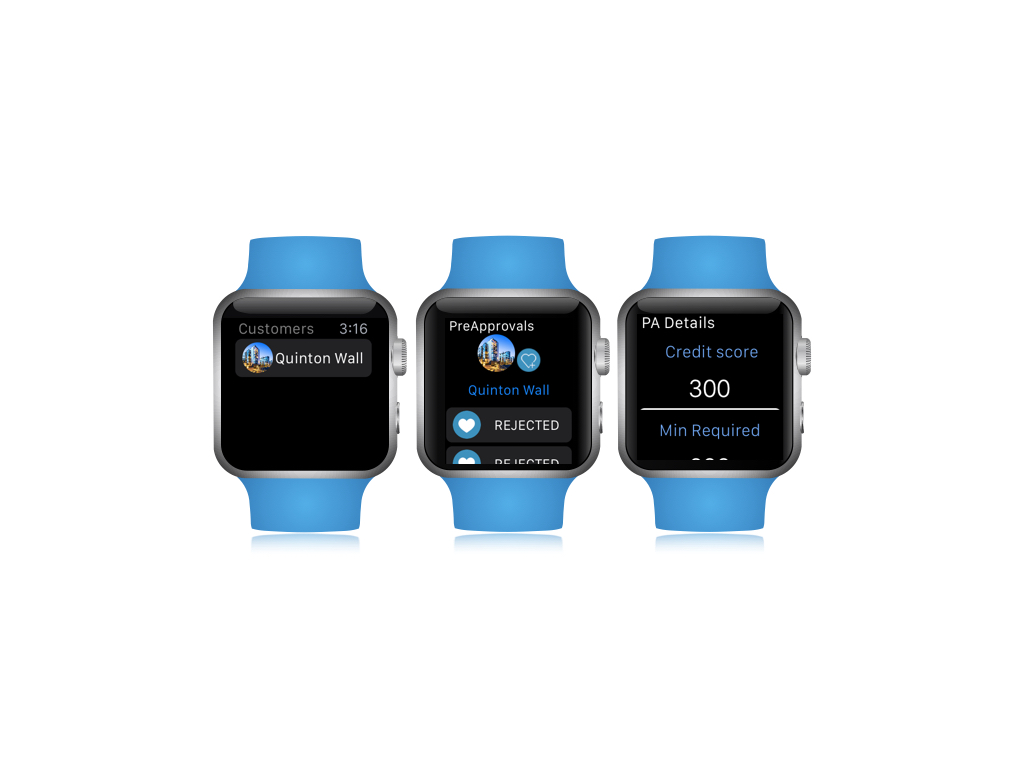
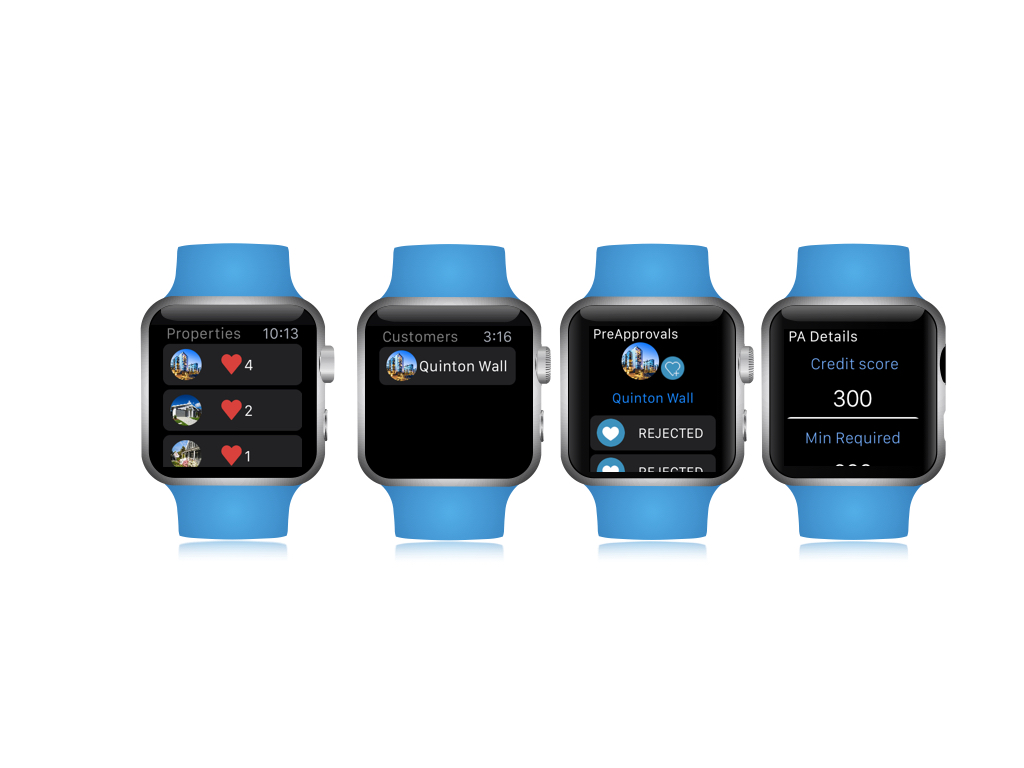
added new properties screen

Changed region(s): [[0.125, 0.2812, 0.9375, 0.7188]]

diff --git a/SalesforceWatch WatchKit Extension/HouseListInterfaceController.swift b/SalesforceWatch WatchKit Extension/HouseListInterfaceController.swift
@@ -1,0 +1,9 @@
+//
+//  HouseListInterfaceController.swift
+//  LightningRealtor
+//
+//  Created by Quinton Wall on 3/10/16.
+//  Copyright © 2016 Salesforce, Inc. All rights reserved.
+//
+
+import Foundation

diff --git a/SalesforceWatch WatchKit Extension/HouseDetailRowController.swift b/SalesforceWatch WatchKit Extension/HouseDetailRowController.swift
@@ -1,0 +1,9 @@
+//
+//  HouseDetailRowController.swift
+//  LightningRealtor
+//
+//  Created by Quinton Wall on 3/10/16.
+//  Copyright © 2016 Salesforce, Inc. All rights reserved.
+//
+
+import Foundation
